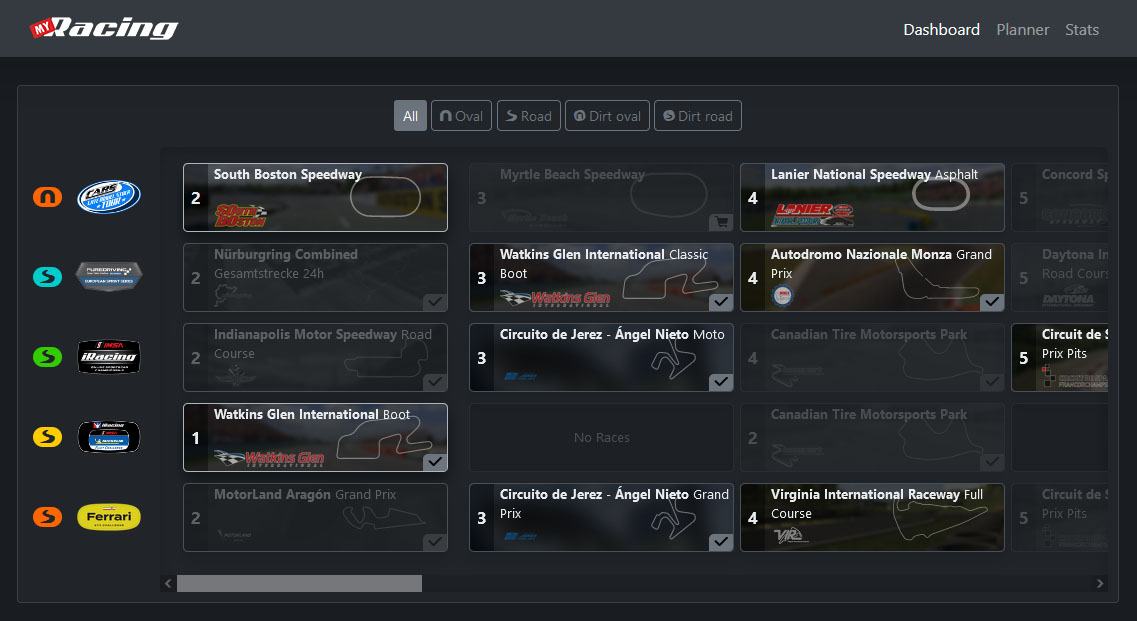
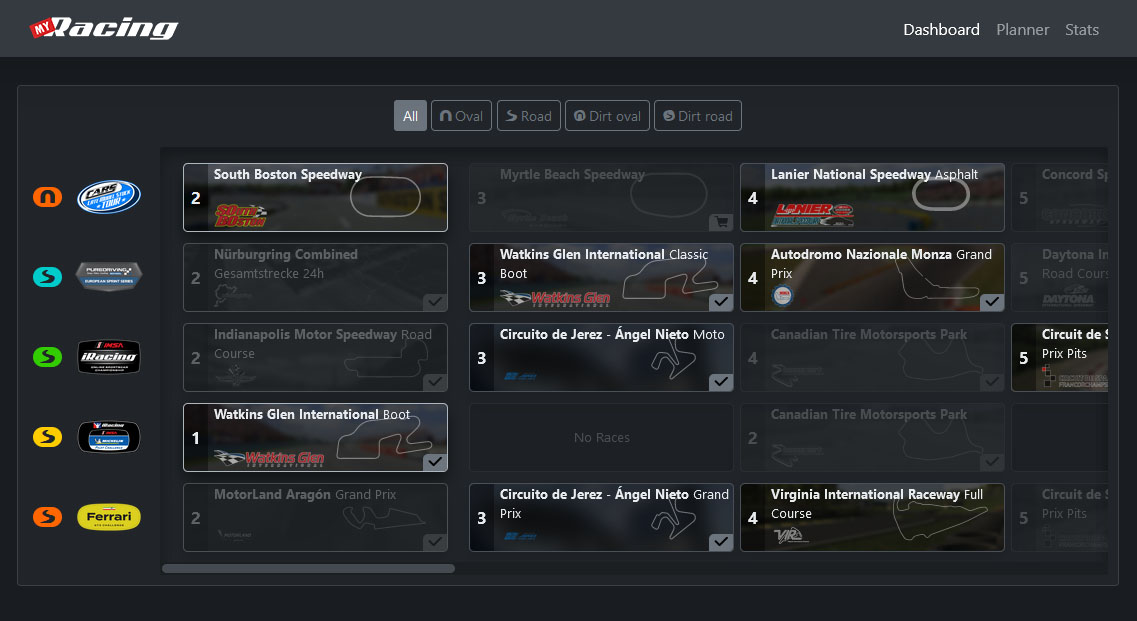
Added custom scrollbar to Dashboard; updated README screenshot

diff --git a/public/css/style.css b/public/css/style.css
@@ -246,7 +246,6 @@ h1 {
     top: 14px;
 }
 .calendar-container {
-    overflow-x: scroll;
     white-space: nowrap;
     padding: 10px;
 }
@@ -322,4 +321,13 @@ h1 {
 }
 .btn-sm .iracing-icons {
     font-size: 11px;
+}
+.simplebar-scrollbar::before {
+    background-color: var(--bs-secondary);
+}
+.simplebar-track {
+    background-color: #1c1f22;
+}
+.simplebar-track.simplebar-horizontal {
+    height: 13px;
 }

diff --git a/resources/views/layouts/app.blade.php b/resources/views/layouts/app.blade.php
@@ -8,7 +8,8 @@
     <title>myRacing - @yield('title')</title>
     <link href="https://cdn.jsdelivr.net/npm/bootstrap@5.3.0/dist/css/bootstrap.min.css" rel="stylesheet" integrity="sha384-9ndCyUaIbzAi2FUVXJi0CjmCapSmO7SnpJef0486qhLnuZ2cdeRhO02iuK6FUUVM" crossorigin="anonymous">
     <link rel="stylesheet" href="https://cdn.jsdelivr.net/npm/@forevolve/bootstrap-dark@1.1.0/dist/css/bootstrap-dark.min.css" />
-    <link rel="stylesheet" type="text/css" href="{{ url('/css/style.css?v=4') }}" />
+    <link rel="stylesheet" href="https://cdn.jsdelivr.net/npm/simplebar@latest/dist/simplebar.css">
+    <link rel="stylesheet" type="text/css" href="{{ url('/css/style.css?v=5') }}" />
     <link rel="apple-touch-icon" sizes="180x180" href="/apple-touch-icon.png">
     <link rel="icon" type="image/png" sizes="32x32" href="/favicon-32x32.png">
     <link rel="icon" type="image/png" sizes="16x16" href="/favicon-16x16.png">
@@ -64,6 +65,7 @@
 
 <script src="https://cdn.jsdelivr.net/npm/bootstrap@5.3.0/dist/js/bootstrap.bundle.min.js"></script>
 <script src="https://cdn.jsdelivr.net/npm/jquery@3.7.0/dist/jquery.min.js"></script>
+<script src="https://cdn.jsdelivr.net/npm/simplebar@latest/dist/simplebar.min.js"></script>
 <script src="{{ url('/js/myracing.js?v=7') }}"></script>
 @stack('scripts')
 </body>

diff --git a/resources/views/dashboard.blade.php b/resources/views/dashboard.blade.php
@@ -30,7 +30,7 @@
                         @endforeach
                     </div>
                     <div class="calendar-outer inner-shadow">
-                        <div class="calendar-container">
+                        <div class="calendar-container inner-shadow" data-simplebar>
                             @foreach($series as $categoryId=>$categorySeries)
                                 @foreach($categorySeries as $s)
                                     <div class="calendar-series" data-series-id="{{ $s->series_id }}" data-category-id="{{ $s->category_id }}" style="display: none;">
